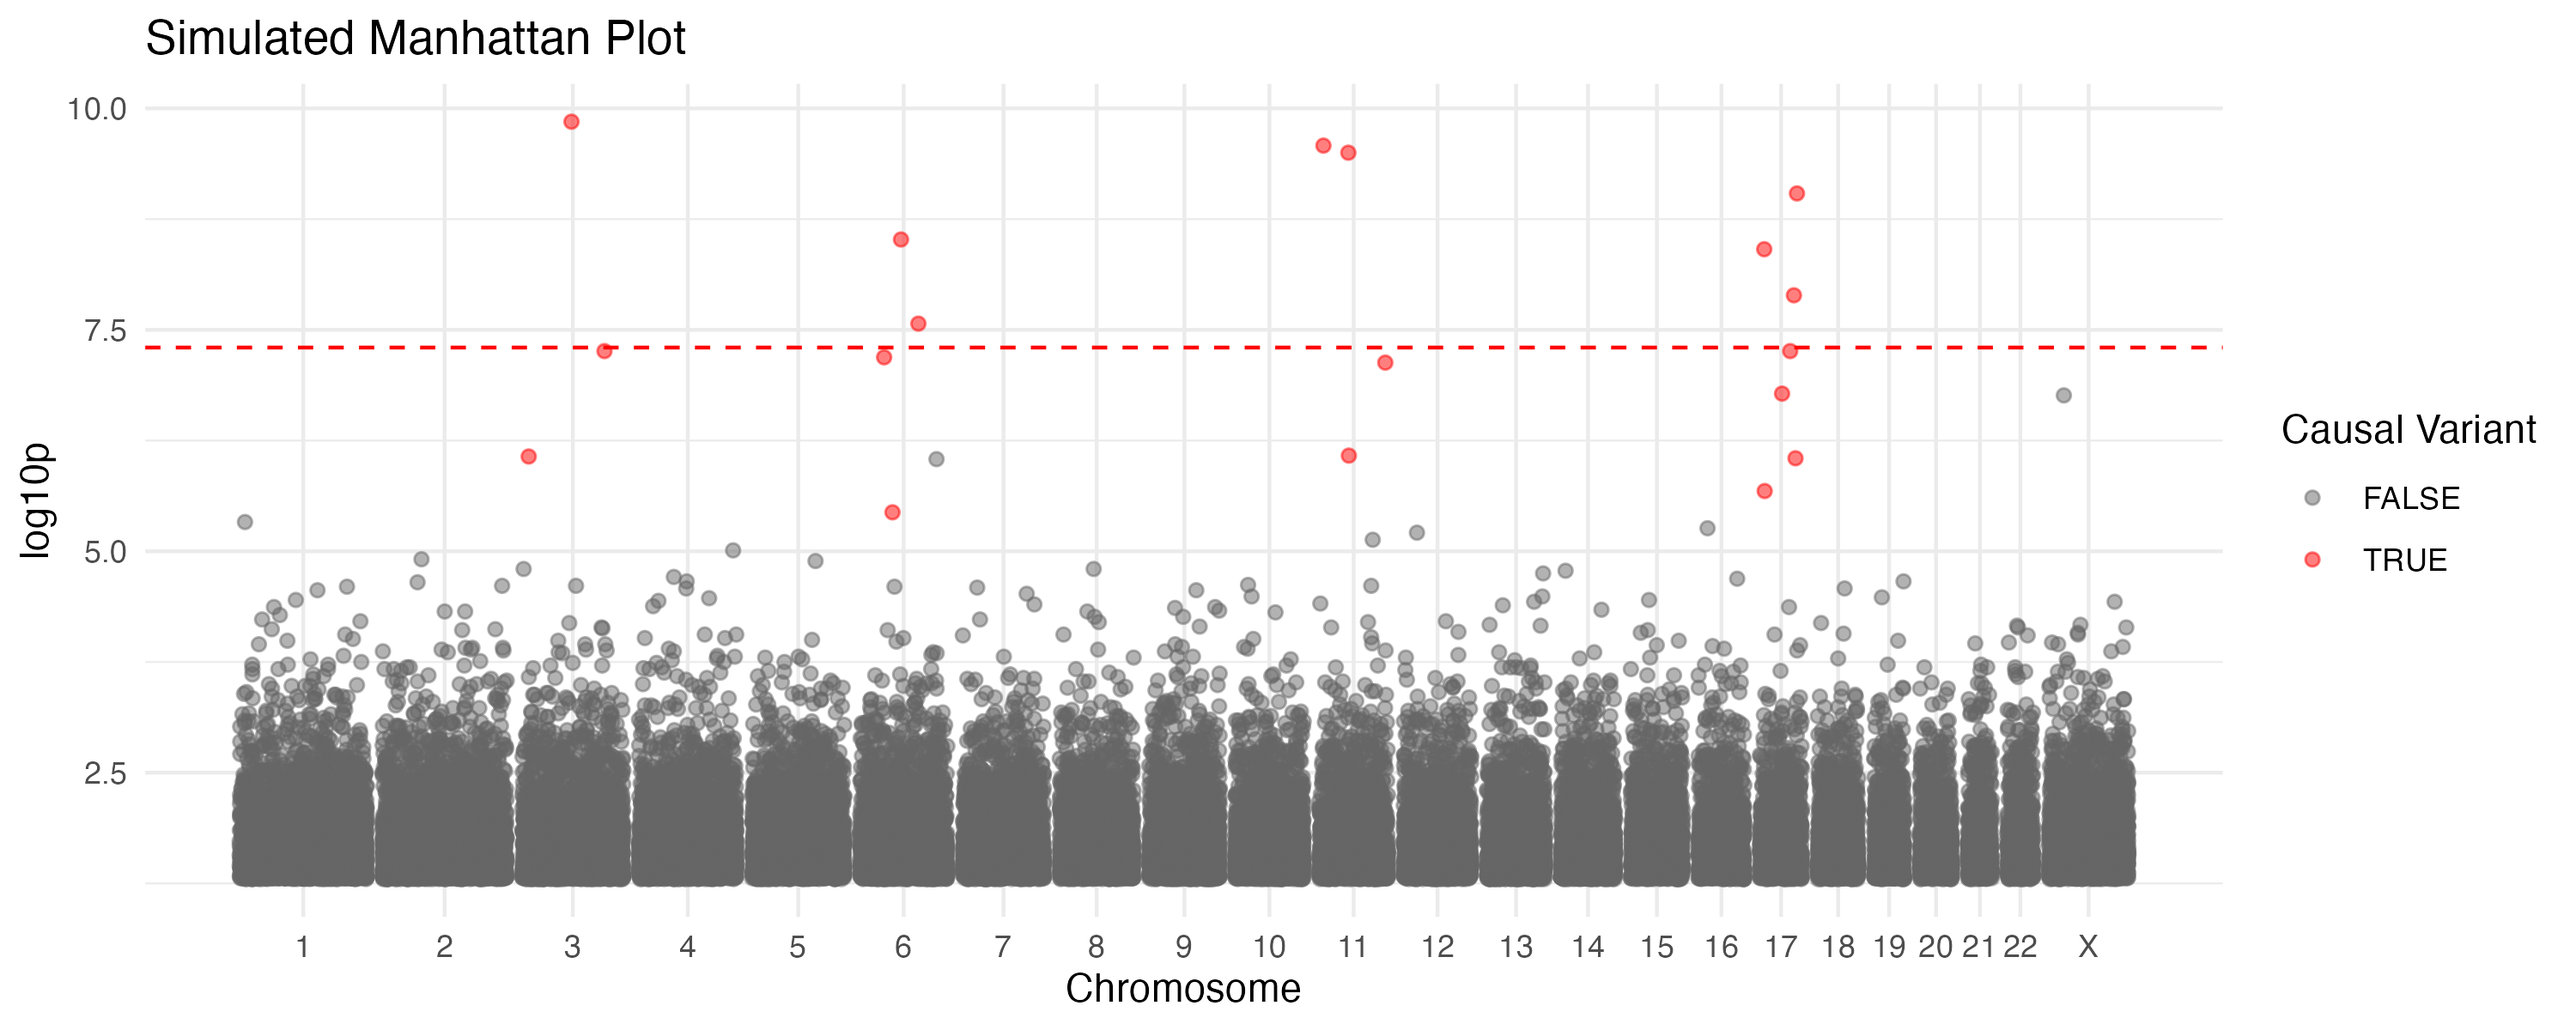
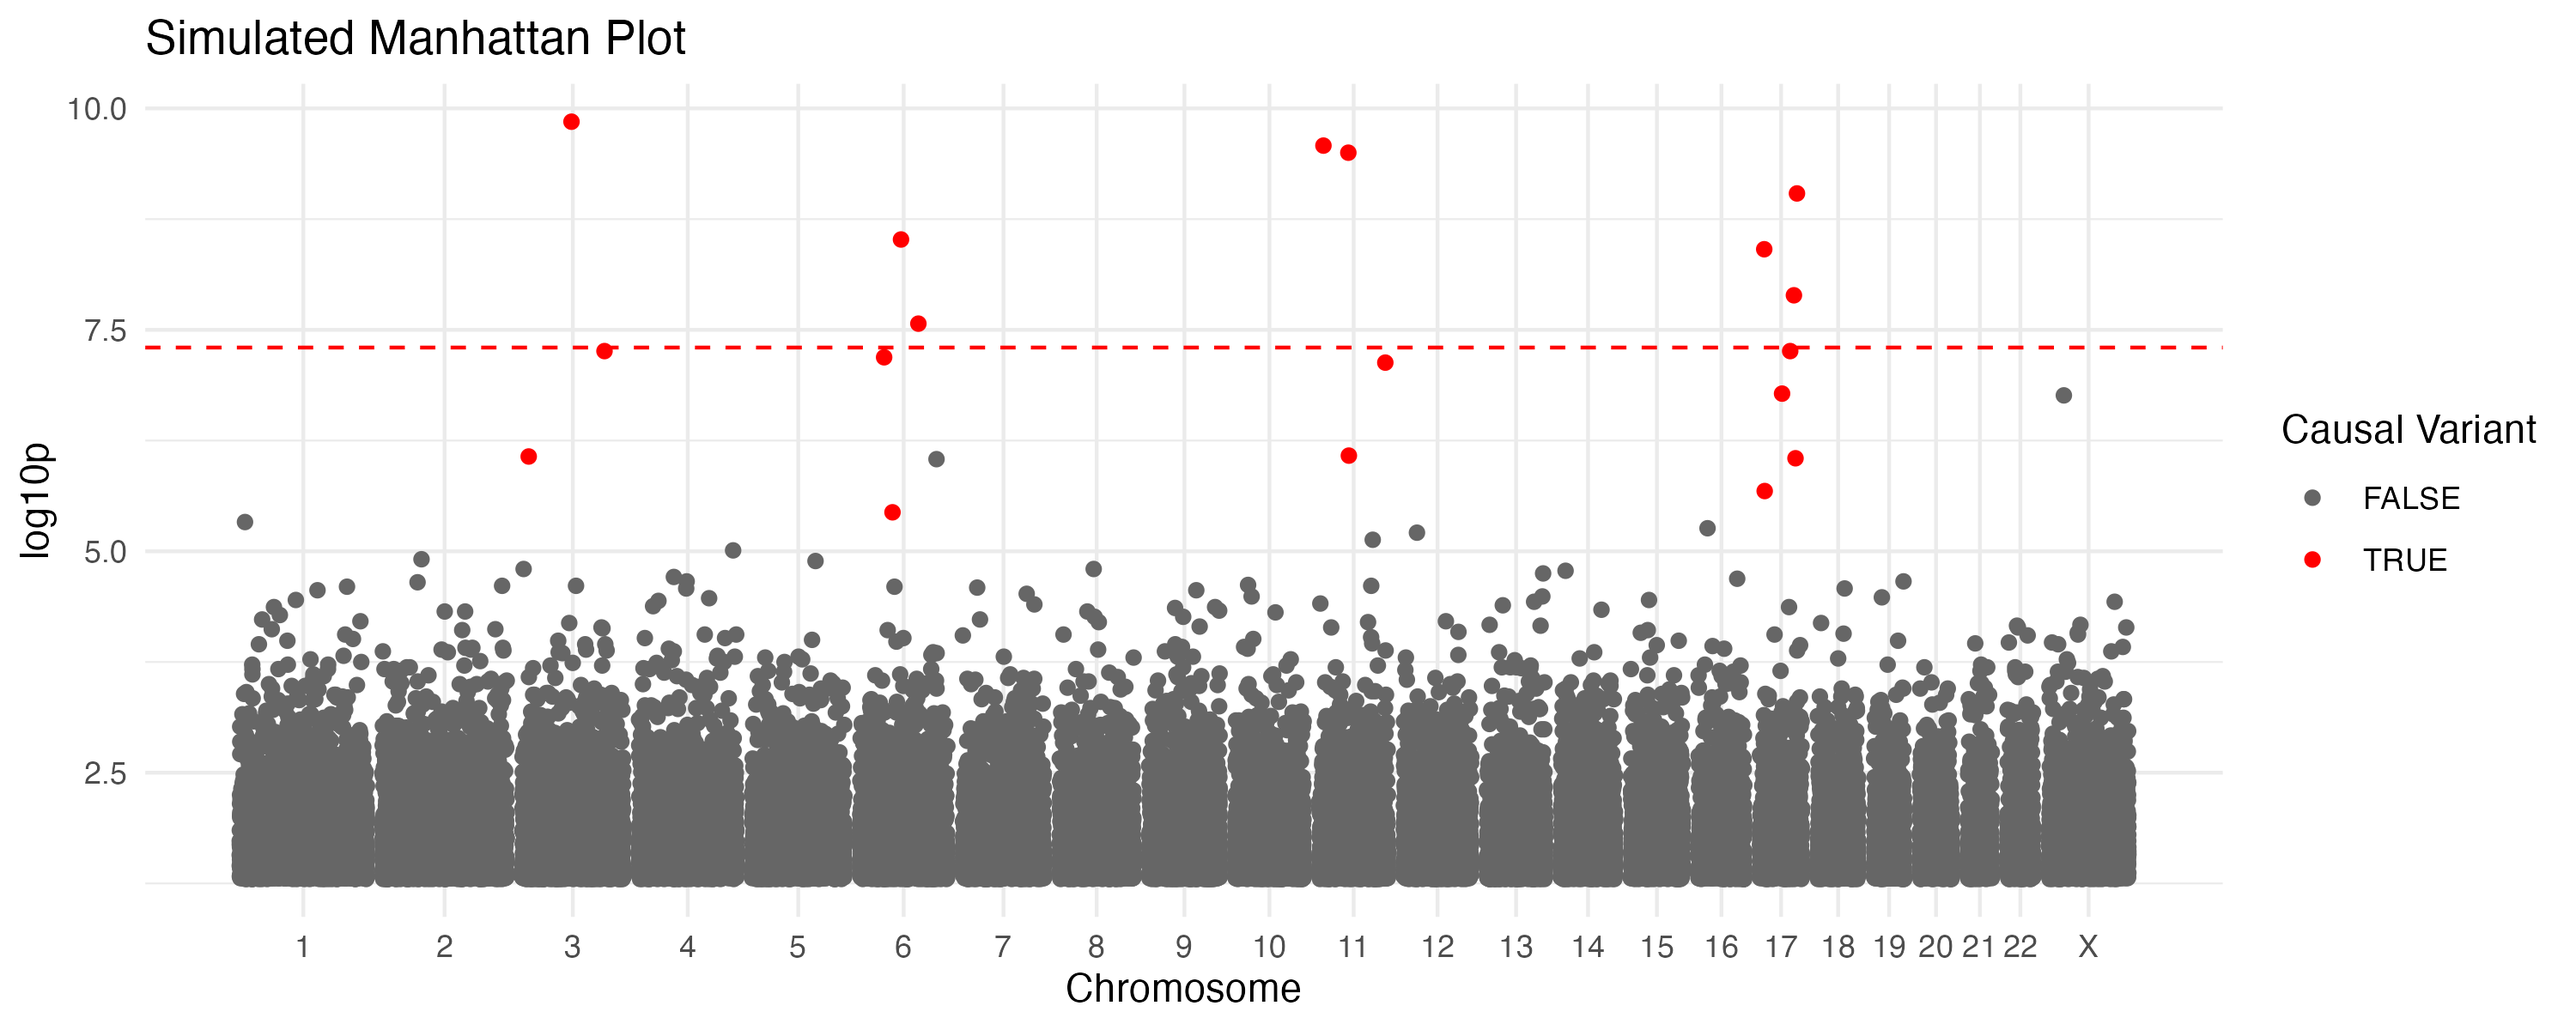
simplify README: use default gaps, remove alpha/linewidth

diff --git a/README.md b/README.md
@@ -24,7 +24,7 @@ p <- ggplot(simulated_gwas, aes(x = position,
                                 y = log10p,
                                 domain = chrom,
                                 color = causal)) +
-    geom_point(alpha = 0.5) +
+    geom_point() +
     coord_serial()
 
 p + scale_color_manual(values = c("TRUE" = "red", "FALSE" = "grey40")) +
@@ -48,8 +48,8 @@ exon_data <- simulate_serial(
 )
 
 ggplot(exon_data, aes(x = position, y = log10p, domain = domain)) +
-    geom_area(fill = "#0072B2", alpha = 0.7) +
-    coord_serial(domain_gap = 0.05) +
+    geom_area(fill = "#0072B2") +
+    coord_serial() +
     theme_minimal() +
     labs(title = "Conservation Scores across Exons", x = "Position", y = "Score")
 ```
@@ -72,8 +72,8 @@ sessions$metric <- ave(rnorm(nrow(sessions)), sessions$domain, FUN = function(x)
 })
 
 ggplot(sessions, aes(x = position, y = metric, domain = domain)) +
-    geom_line(color = "#D55E00", linewidth = 0.8) +
-    coord_serial(domain_gap = 0.05) +
+    geom_line(color = "#D55E00") +
+    coord_serial() +
     theme_light() +
     labs(title = "System Load across Sessions", x = "Time (seconds)", y = "Load Metric")
 ```
